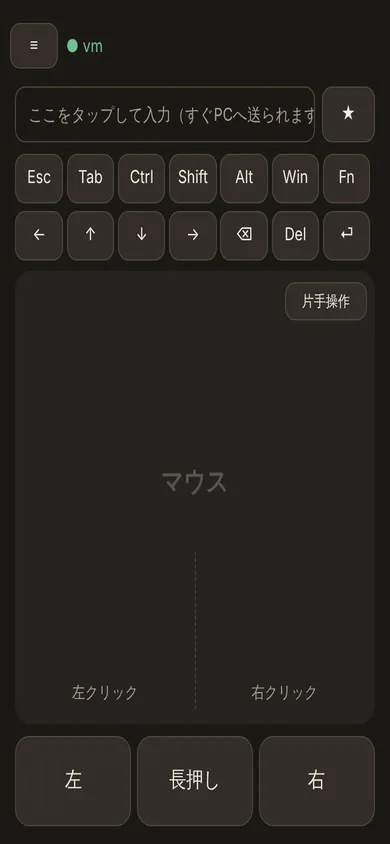
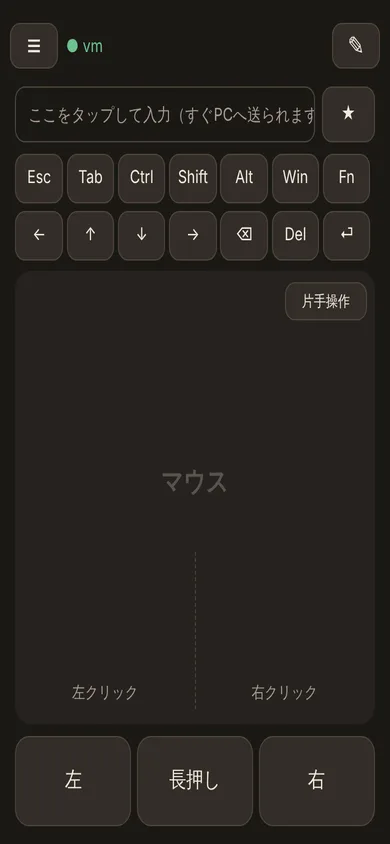
v2.3.1: キーボード画面の右上に ✎（配置を変える）を戻す
- アプリ・ブラウザ版のキーボード画面の上部に ✎ を置き、押すと配置の変更に入るようにした
- ブラウザ版の ≡ が小さく表示されていたのを直した
- 案内文・使い方ページ・はじめにお読みください・写真を合わせて更新

Claude-Session: https://claude.ai/code/session_01NthuQHmoR6VvhEHDFggQkE

Changed region(s): [[0.8308, 0.0308, 0.9846, 0.0924], [0.0615, 0.0308, 0.1231, 0.0616]]

diff --git a/docs/guide.html b/docs/guide.html
@@ -120,7 +120,7 @@
       <div>
         <h3 style="margin-top:0">お気に入り（☆）</h3>
         <p>メニューの右の <b>☆</b> を押すと、その機能を開くボタンがキーボード画面に置かれます（★ になります）。よく使う機能を置いておくと、メニューを開かずにすぐ移れます。もう一度押すと外れます。</p>
-        <p>置いたボタンは、ほかのキーと同じように ≡ →「キーボード画面の配置」で、場所や大きさを変えたり、隠したりできます。</p>
+        <p>置いたボタンは、ほかのキーと同じように、キーボード画面右上の <b>✎</b> で場所や大きさを変えたり、隠したりできます。</p>
         <figure style="max-width:260px;margin-top:14px"><img src="img/kbfav.webp" width="390" height="844" alt="キーボード画面に、コントローラー・PCの画面・音量などのお気に入りのボタンが置かれている"><figcaption>お気に入りを置いたキーボード画面</figcaption></figure>
         <h3>メニューの並べ替え</h3>
         <p>メニューの下の「並べ替え」を押すと、↑ ↓ で好きな順番にできます。「最初の並びに戻す」で元に戻ります。</p>
@@ -134,7 +134,7 @@
 
   <section id="kb" aria-labelledby="h-kb">
     <h2 id="h-kb">キーボードとマウス</h2>
-    <p class="sub">開いたときの画面です。上が文字入力、下の大きな面がマウス（トラックパッド）です。左上の ≡ でメニューが開きます。</p>
+    <p class="sub">開いたときの画面です。上が文字入力、下の大きな面がマウス（トラックパッド）です。左上の ≡ でメニューが開き、右上の ✎ でボタンの配置を変えられます。</p>
     <div class="pair">
       <figure><img src="img/kb.webp" width="390" height="844" alt="キーボードとマウスの画面。上に入力欄と特殊キー、下に大きなトラックパッドと左・長押し・右のボタン"><figcaption>キーボードとマウスの画面</figcaption></figure>
       <div>
@@ -159,7 +159,7 @@
         <p>マウスの面の右上にある「片手操作」を押すと、1本指だけで全部できる画面になります。なぞる=カーソル移動、タップ=左クリックで、スクロール（▲▼、押し続けると連続）・右クリック・つかむ（ドラッグ）は横に並んだボタンで行います。「つかむ」を押すと左ボタンを押したままになり、なぞって動かしてから「はなす」で離します。</p>
         <p>右手用はボタンが右側（親指の側）に並びます。左手で持つときは、左上の「＜ 左手用」を押すとボタンが左側に移ります。右手用に戻すときは右上の「＞ 右手用」です。元の画面に戻すときは「片手をやめる」を押します。</p>
         <h3 id="kb-layout">ボタンの配置を変える</h3>
-        <p>≡ →「キーボード画面の配置」を押すと、キーやマウス、お気に入りのボタンの位置・大きさを1つずつ変えられます。部品をタップして選び、なぞって動かします。選んだ部品の右下の丸をなぞると大きさが変わります。</p>
+        <p>キーボード画面右上の <b>✎</b>（または ≡ →「キーボード画面の配置」）を押すと、キーやマウス、お気に入りのボタンの位置・大きさを1つずつ変えられます。部品をタップして選び、なぞって動かします。選んだ部品の右下の丸をなぞると大きさが変わります。</p>
         <dl class="keys">
           <dt>隠す</dt><dd>使わないキーやボタンを消します。隠した部品は配置を変えている間だけ薄く出るので、選んで「表示」で戻せます</dd>
           <dt>＋キー</dt><dd>好きなキーを追加できます（例: F5、Ctrl+C、Alt+Tab、Win+D）。アプリやサイトを開くボタンにもできます。消すときは選んで「削除」</dd>

diff --git a/pc/webapp/app.js b/pc/webapp/app.js
@@ -383,6 +383,8 @@ const Views = {
     document.querySelectorAll(".view").forEach((v) => { v.hidden = v.id !== id; });
     // コントローラーと画面表示は、画面いっぱいに使う
     document.body.classList.toggle("full", id === "padView" || id === "scrView");
+    // ✎ (配置を変える) はキーボード画面のときだけ
+    $("kbEditBtn").hidden = id !== "kbView";
     (this.listeners[prev] || []).forEach((f) => f(false));
     (this.listeners[id] || []).forEach((f) => f(true));
   },
@@ -1316,7 +1318,7 @@ const Menu = {
     }
     store("kbCustom", list);
     if (typeof KbStage !== "undefined") KbStage.reload();
-    toast(had ? "キーボード画面から「" + f.label + "」を外しました" : "キーボード画面に「" + f.label + "」を置きました（≡ →「キーボード画面の配置」で場所を変えられます）");
+    toast(had ? "キーボード画面から「" + f.label + "」を外しました" : "キーボード画面に「" + f.label + "」を置きました（キーボード画面右上の ✎ で場所を変えられます）");
   },
   launch(id) {
     this.close();
@@ -1392,6 +1394,7 @@ const Menu = {
   },
 };
 $("menuBtn").onclick = () => Menu.open();
+$("kbEditBtn").onclick = () => { if (typeof KbStage !== "undefined") KbStage.edit(); };
 $("drawerClose").onclick = () => Menu.close();
 $("drawerDim").onclick = () => Menu.close();
 $("drawerOrder").onclick = () => { Menu.reorder = !Menu.reorder; Menu.render(); };
@@ -1415,7 +1418,7 @@ const COACH = {
     "メニューの ☆ を押すと、その機能のボタンをこの画面に置けます（お気に入り）。よく使うものを置いておくと便利です。",
     "★ でコピー・貼り付けなどのショートカットや、アプリ・サイトを開けます。",
     "マウスの右上の「片手操作」で、片手（1本指）だけで使える画面になります。「＜ 左手用」「＞ 右手用」で利き手を切り替えます。",
-    "≡ →「キーボード画面の配置」で、ボタンの位置・大きさを変えたり、隠したり、好きなキー（F5、Ctrl+C、Alt+Tab など）を追加したりできます。",
+    "右上の ✎（または ≡ →「キーボード画面の配置」）で、ボタンの位置・大きさを変えたり、隠したり、好きなキー（F5、Ctrl+C、Alt+Tab など）を追加したりできます。",
   ]],
   padView: ["コントローラー", [
     "スマホを横向きにして使います。PCからは Xbox 360 コントローラーに見えます。",

diff --git a/pc/webapp/index.html b/pc/webapp/index.html
@@ -177,6 +177,8 @@
   /* ≡ のメニュー */
   .menuBtn { width: 48px; padding: 0; font-size: 24px; line-height: 1; }
   .top .status { text-align: left; }
+  .top .menuBtn { font-size: 24px; }
+  .top .menuBtn.editBtn { font-size: 20px; }
   .drawer { position: fixed; inset: 0; z-index: 22; }
   .drawer .dim { position: absolute; inset: 0; background: rgba(0,0,0,.55); animation: fadein .15s; }
   .drawer .panel { position: absolute; top: 0; bottom: 0; left: 0; width: min(84%, 340px); background: var(--surface);
@@ -242,6 +244,7 @@
 <div class="top" id="topBar">
   <button id="menuBtn" class="menuBtn" aria-label="メニュー">≡</button>
   <div class="status" id="status">接続しています…</div>
+  <button id="kbEditBtn" class="menuBtn editBtn" aria-label="キーボード画面の配置を変える" title="配置を変える">✎</button>
 </div>
 <div class="top" id="kbEditBar" hidden>
   <div id="kbSel">部品をタップして選ぶ</div>
@@ -377,7 +380,7 @@
 
     <div data-sec="set_mouse"><div id="setMouse"></div></div>
     <div data-sec="set_kb"><div id="setKb"></div>
-      <p class="note">キー・マウスの位置や大きさ、隠す、キーの追加は ≡ →「キーボード画面の配置」から変えられます。</p>
+      <p class="note">キー・マウスの位置や大きさ、隠す、キーの追加は、キーボード画面右上の ✎ から変えられます。</p>
       <div class="row" style="margin-top:10px"><button id="kbResetAll">キーボード画面の配置を初期に戻す</button></div>
     </div>
     <div data-sec="set_pad"><div id="setPad"></div>

diff --git a/android/app/src/main/java/com/phonepad/app/RemoteActivity.kt b/android/app/src/main/java/com/phonepad/app/RemoteActivity.kt
@@ -159,8 +159,11 @@ class RemoteActivity : Activity() {
             }
         }
         top.addView(statusView, LinearLayout.LayoutParams(0, dpi(40), 1f))
-        // 左右の釣り合いをとる (状態の表示を真ん中に)
-        top.addView(View(this), LinearLayout.LayoutParams(dpi(48), dpi(40)))
+        // ✎ 配置を変える (キー・マウス・お気に入りのボタンの場所や大きさ)
+        top.addView(KeyButton(this, "✎", 20f).apply {
+            contentDescription = "キーボード画面の配置を変える"
+            onTap = { setEditing(true) }
+        }, LinearLayout.LayoutParams(dpi(48), dpi(40)))
         root.addView(top)
         root.addView(buildEditBar())
 
@@ -334,7 +337,7 @@ class RemoteActivity : Activity() {
         }
     }
 
-    /** 配置を変える (メニューの「キーボード画面の配置」から) */
+    /** 配置を変える (右上の ✎ や、メニューの「キーボード画面の配置」から) */
     fun startEditing() = setEditing(true)
 
     override fun onNewIntent(intent: Intent) {

diff --git a/android/app/src/main/java/com/phonepad/app/SettingsActivity.kt b/android/app/src/main/java/com/phonepad/app/SettingsActivity.kt
@@ -85,7 +85,7 @@ class SettingsActivity : Activity() {
         slider("長押ししてから連続入力が始まるまで（ミリ秒）", 150f, 800f, Prefs.keyRepeatDelay.toFloat(), 0) {
             Prefs.keyRepeatDelay = it.roundToInt()
         }
-        box.addView(label(this, "キー・マウスの位置や大きさ、隠す、キーの追加（F5、Ctrl+C など）は、≡ →「キーボード画面の配置」から変えられます。「PCの入力欄」もそこで表示にできます。", 12f, C.SUB).apply {
+        box.addView(label(this, "キー・マウスの位置や大きさ、隠す、キーの追加（F5、Ctrl+C など）は、キーボード画面右上の ✎ から変えられます。「PCの入力欄」もそこで表示にできます。", 12f, C.SUB).apply {
             setPadding(0, dpi(6), 0, 0)
         })
         box.addView(KeyButton(this, "キーボード画面の配置を初期に戻す", 14f).apply {

diff --git a/android/app/src/main/java/com/phonepad/app/MenuDrawer.kt b/android/app/src/main/java/com/phonepad/app/MenuDrawer.kt
@@ -147,7 +147,7 @@ class MenuDrawer(private val act: Activity, private val onFavChanged: (() -> Uni
                     background = rounded(0, act.dp(10f))
                     onTap = {
                         val on = Features.toggleFav(f.id)
-                        Toast.makeText(act, if (on) "キーボード画面に「${f.label}」を置きました（✎ で場所を変えられます）" else "キーボード画面から「${f.label}」を外しました", Toast.LENGTH_SHORT).show()
+                        Toast.makeText(act, if (on) "キーボード画面に「${f.label}」を置きました（キーボード画面右上の ✎ で場所を変えられます）" else "キーボード画面から「${f.label}」を外しました", Toast.LENGTH_SHORT).show()
                         onFavChanged?.invoke()
                         render()
                     }

diff --git a/CHANGELOG.md b/CHANGELOG.md
@@ -2,6 +2,11 @@
 
 新しいバージョンは一番上に書いてください。main に push すると自動で公開されます。
 
+## v2.3.1 (2026-10-14)
+
+- キーボード画面の右上に「✎」を戻しました。押すと、キー・マウス・お気に入りのボタンの場所や大きさを変えられます（v2.3.0 ではメニューの奥にしかなく、見つけにくくなっていました。アプリ・ブラウザ版とも。ブラウザ版はPCを v2.3.1 にすると変わります）
+- ブラウザ版: 左上の「≡」が小さく表示されていたのを直しました
+
 ## v2.3.0 (2026-10-14)
 
 画面の作りを整理しました（アプリ・ブラウザ版・PCをすべて v2.3.0 にしてください）。
